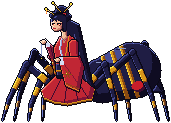
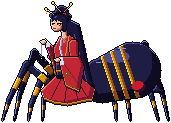
Sprite-Korrekturen: Ebenenfehler bei Spinnenbeinen (Tsuchigumo, Gyūki, Kumo, Jorōgumo), Hyōsube-Kantenlicht, Mikaboshi mit Sternen, Raijū größer
Claude-Session: https://claude.ai/code/session_01KhgxT7a5tRTGeQVFkHSAcV

Changed region(s): [[0.5263, 0.3902, 0.8187, 0.8293], [0.7895, 0.5122, 0.9064, 0.7805]]

diff --git a/art_src/fable/stars.py b/art_src/fable/stars.py
@@ -1,0 +1,44 @@
+"""Mikaboshi: Sternenmuster auf dem dunklen Gewand + Sternenkrone über dem Kopf (Nachbearbeitung der Ableitung)."""
+import random, sys
+import numpy as np
+from PIL import Image
+GOLD, WH = (255, 226, 74, 255), (255, 251, 192, 255)
+ROBE = [(0x1e, 0x1a, 0x48), (0x3a, 0x34, 0x78), (0x0a, 0x08, 0x20)]
+
+
+def star(a, x, y, big=False):
+    H, W = a.shape[:2]
+    pts = [(0, 0, WH)] + [(dx, dy, GOLD) for dx, dy in ((1, 0), (-1, 0), (0, 1), (0, -1))]
+    if big:
+        pts += [(dx, dy, GOLD) for dx, dy in ((2, 0), (-2, 0), (0, 2), (0, -2))]
+    for dx, dy, c in pts:
+        if 0 <= x + dx < W and 0 <= y + dy < H:
+            a[y + dy, x + dx] = c
+
+
+def process(path, n, seed=3):
+    im = Image.open(path).convert('RGBA'); a = np.array(im)
+    w = a.shape[1] // n
+    for f in range(n):
+        sub = a[:, f * w:(f + 1) * w]
+        rng = random.Random(seed)
+        robe = np.zeros(sub.shape[:2], bool)
+        for c in ROBE:
+            robe |= np.all(sub[:, :, :3] == c, axis=2)
+        ys, xs = np.nonzero(robe)
+        for k in range(min(7, len(ys))):
+            i = rng.randrange(len(ys)); star(sub, xs[i], ys[i])
+        op = np.nonzero(sub[:, :, 3])
+        if len(op[0]):
+            top = op[0].min(); cols = op[1][op[0] < top + 6]; cx = int(cols.mean())
+            for j, dx in enumerate((-8, -4, 0, 4, 8)):
+                star(sub, cx + dx, max(2, top - 4 + abs(dx) // 3), big=(dx == 0))
+        a[:, f * w:(f + 1) * w] = sub
+    Image.fromarray(a).save(path)
+
+
+if __name__ == '__main__':
+    d = '/home/claude/fable_art/heroes/'
+    process(d + 'boss_mikaboshi.png', 1)
+    process(d + 'boss_mikaboshi_walk.png', 4)
+    process(d + 'boss_mikaboshi_attack.png', 3)

diff --git a/art_src/fable/derive.py b/art_src/fable/derive.py
@@ -7,7 +7,7 @@ JOBS = {
                                               't0': '#1c0c2e', 't1': '#3a1e5e', 't2': '#6a3c98',
                                               'r1': '#5a0c2a', 'r2': '#961a2a', 'r3': '#c43a2c'}),
     'hyosube': ('', 'kappa', 'kappa', {'g0': '#160a0c', 'g1': '#3a2016', 'g2': '#64402a', 'g3': '#946a44', 'g4': '#c49c6c',
-                                         'a0': '#3a2016', 'a1': '#64402a', 'a2': '#946a44'}),
+                                         'a0': '#3a2016', 'a1': '#64402a', 'a2': '#946a44', 'xg': '#d8b890'}),
     'bake_danuki': ('heroes', 'ponpoko', 'ponpoko', {'s0': '#120c16', 's1': '#2e2228', 's2': '#54423e', 's3': '#86705a',
                                                    'c0': '#3a1420', 'c1': '#6a2430', 'c2': '#a84a3a'}),
     'gyuki': ('enemies_3', 'tsuchigumo', 'spider', {'s0': '#0a0610', 's1': '#1e1420', 's2': '#3a2632', 's3': '#5e4048',

diff --git a/art_src/fable/enemies_3/tsuchigumo.py b/art_src/fable/enemies_3/tsuchigumo.py
@@ -94,6 +94,10 @@ def spider(**kw):
         h = HIPS[i]
         leg(c, (cx + h[0] + 3, cy + h[1] - 3), P(*S['far'][i]), BRNF, knee_of(S, 'far', i, cx, cy))
 
+    # ---- hintere nahe Beine HINTER den Hinterleib (sonst verdecken sie ihn)
+    for i in (3, 2):
+        h = HIPS[i]
+        leg(c, (cx + h[0], cy + h[1]), P(*S['near'][i]), BRN, knee_of(S, 'near', i, cx, cy))
     # ---- abdomen: tiger pelt
     p = C()
     ab = E(ax, ay, 24.4, 19.4) | E(ax + 12, ay + 3, 15, 14)
@@ -126,10 +130,6 @@ def spider(**kw):
         p.fill(R(cx + q[0], cy + q[1], cx + q[0] + 1, cy + q[1]), 's1')
     c.stamp(p, 'K')
 
-    # ---- near legs (rear pair first, front pair last)
-    for i in (3, 2):
-        h = HIPS[i]
-        leg(c, (cx + h[0], cy + h[1]), P(*S['near'][i]), BRN, knee_of(S, 'near', i, cx, cy))
     # ---- head
     p = C()
     p.grid(cx - 28, cy - 5 + S['tilt'], HEAD, LEG)

diff --git a/art_src/fable/bosses_1/boss_jorogumo.py b/art_src/fable/bosses_1/boss_jorogumo.py
@@ -97,6 +97,9 @@ def jorogumo(**kw):
     for key in ('f4', 'f3', 'f2', 'f1'):
         sleg(c, *LG(S[key], 0.2 if key in ('f3', 'f4') else 0.7), near=False)
 
+    # hintere nahe Beine hinter den Hinterleib (Ebenen-Korrektur)
+    for key in ('n4', 'n3'):
+        sleg(c, *LG(S[key], 0.2), near=True)
     # ---- abdomen
     p = C()
     a0, a1 = Bs((134, 90), 0.1), Bs((164, 80), 0.0)
@@ -122,8 +125,8 @@ def jorogumo(**kw):
     p.form(ceph, BLK, sd=4, hl=1)
     c.stamp(p, 'K')
 
-    for key in ('n4', 'n3', 'n2', 'n1'):
-        sleg(c, *LG(S[key], 0.2 if key in ('n3', 'n4') else 0.7), near=True)
+    for key in ('n2', 'n1'):
+        sleg(c, *LG(S[key], 0.7), near=True)
 
     # ---- long hair down the back
     p = C()

diff --git a/art_src/fable/enemies_4/kumo.py b/art_src/fable/enemies_4/kumo.py
@@ -76,6 +76,10 @@ def draw(**kw):
         f = S['ff'][i]
         leg(c, hip(i, True), (cx + f[0], BASE + f[1]), S['kh'][i] - 2, FAR, bends[i])
 
+    # hintere nahe Beine hinter den Hinterleib (Ebenen-Korrektur)
+    for i in (3, 2):
+        f = S['nf'][i]
+        leg(c, hip(i), (cx + f[0], BASE + f[1]), S['kh'][i], NEAR, bends[i])
     # abdomen
     p = C()
     abd = E(ab[0] + 2, ab[1], 11.4, 10.4)
@@ -100,7 +104,7 @@ def draw(**kw):
         p.grid(hc[0] - 8, hc[1] + 4, FANGS, LEG)
     c.stamp(p, 'u0')
 
-    for i in (3, 2, 1, 0):
+    for i in (1, 0):
         f = S['nf'][i]
         leg(c, hip(i), (cx + f[0], BASE + f[1]), S['kh'][i], NEAR, bends[i])
     c.blacken()

diff --git a/yokai/bosses.py b/yokai/bosses.py
@@ -880,7 +880,7 @@ class Sojobo(Boss):
 
 
 class Raiju(Boss):
-    sheet = ('boss_raiju', 1, None)
+    sheet = ('boss_raiju', 2, None)
 
     r = 12
 
